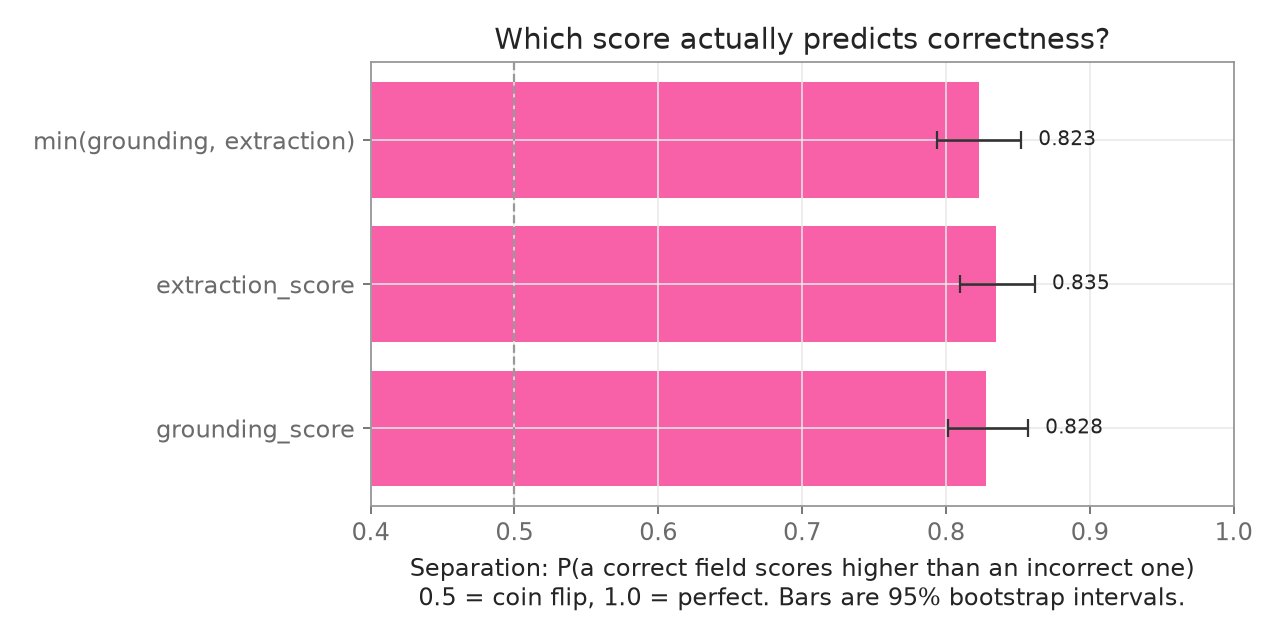
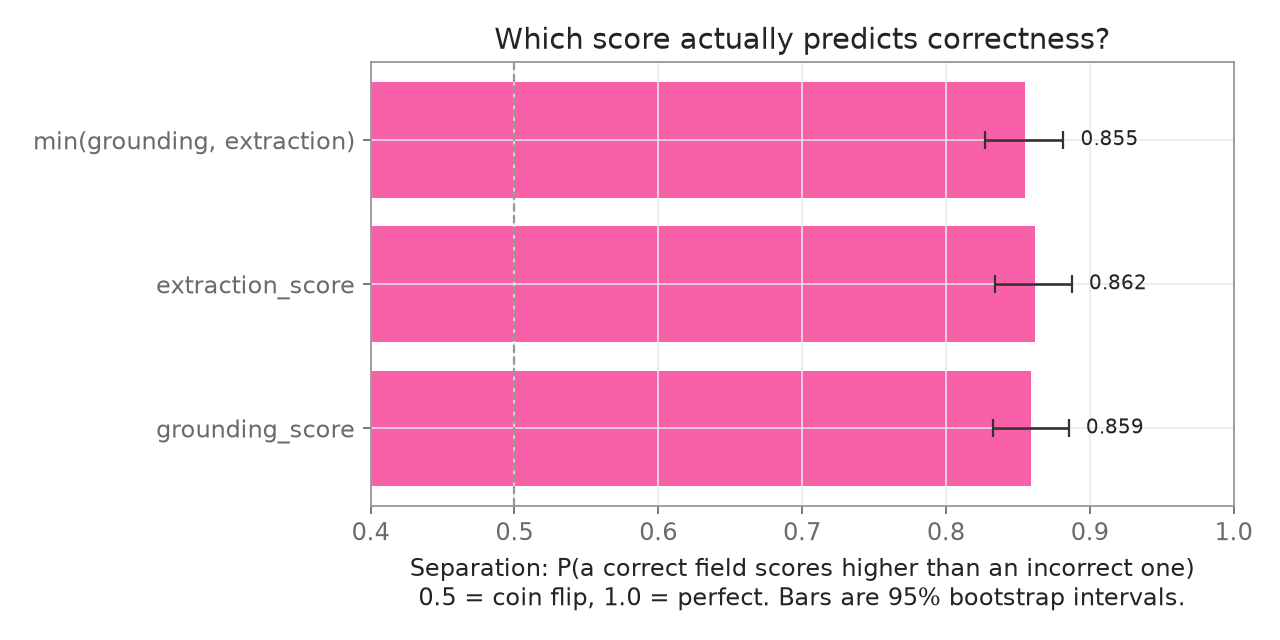
Fix a money-parsing scoring bug in compare.py, add regression tests
_strip_money() resolved comma ambiguity (thousands separator vs decimal) but
hardcoded the assumption that "." always means decimal. False for part of the
CORD corpus: Indonesian receipts commonly print "." as a thousands separator
with no subunit ("15.000" = 15000 IDR). Ground truth preserves each receipt's
own punctuation but the extractor doesn't always mirror it, so the same real
value could arrive as "15.000" on one side and "15,000" on the other and parse
to 15.0 and 15000.0 through different code paths -- scored as a mismatch
despite the extraction being correct. A narrower sibling bug: the literal "."
in a "Rp." abbreviation survived the symbol-stripping regex and was read as a
decimal point too ("Rp. 91,000" parsed as 0.91).

Fix: whichever of "," or "." is rightmost is the decimal-point candidate, and
only counts as one if exactly 1-2 digits follow it; otherwise both symbols are
discarded. Verified against US format, EU/ID format, multi-group thousands,
negatives, and the Rp. case.

Measured impact rather than assumed: generated-corpus rows (0/1176 changed,
confirmed with duplicate-safe alignment since repeated line items share a
field name) and field_type_accuracy.csv/figure 5 are unaffected, since both
are computed from the generated corpus only. CORD rows: 22 flip from wrong to
correct, matching the false-negative pattern exactly, zero regressions.
score_discrimination.csv (Finding 1), which pools both corpora, moved as a
[…]

Changed region(s): [[0.75, 0.5625, 0.9062, 0.7812], [0.75, 0.125, 0.9062, 0.3125], [0.75, 0.3438, 0.9062, 0.5312]]

diff --git a/confidence-calibration/calibration/test_compare.py b/confidence-calibration/calibration/test_compare.py
@@ -1,0 +1,171 @@
+"""Tests for the comparison rules in compare.py.
+
+This module is the entire epistemic foundation of the recipe: every headline number in the
+notebook and README is downstream of `values_match` deciding what counts as correct. The
+money-parsing case (`_strip_money`) shipped with a real bug — every "." was treated as a
+decimal point regardless of locale, so "15.000" (Indonesian thousands) and "15,000" (the same
+value, US-style) parsed to 15.0 and 15000.0 and scored as a mismatch. It was found by hand,
+cross-referencing a CSV against ground truth. These cases are what should have caught it.
+
+Run: python -m unittest calibration.test_compare -v   (from confidence-calibration/)
+"""
+
+import unittest
+from datetime import date
+
+from calibration.compare import (
+    _fold_id,
+    _fold_text,
+    _parse_date,
+    _strip_money,
+    _strip_number,
+    flatten_result,
+    flatten_truth,
+    values_match,
+)
+
+
+class StripMoneyTests(unittest.TestCase):
+    def test_us_format_thousands_and_decimal(self):
+        self.assertEqual(_strip_money("$1,401.42"), "1401.42")
+
+    def test_eu_id_format_thousands_and_decimal(self):
+        # Comma as decimal, dot as thousands grouping.
+        self.assertEqual(_strip_money("1.401,42"), "1401.42")
+
+    def test_indonesian_thousands_dot_no_subunit(self):
+        # The bug: "." was always treated as decimal, so this parsed to 15.0.
+        self.assertEqual(_strip_money("15.000"), "15000.00")
+
+    def test_comma_thousands_no_subunit(self):
+        self.assertEqual(_strip_money("15,000"), "15000.00")
+
+    def test_indonesian_and_western_notation_are_equal(self):
+        # The specific false negative from receipt_042: same value, two conventions.
+        self.assertEqual(_strip_money("15.000"), _strip_money("15,000"))
+
+    def test_currency_abbreviation_dot_is_not_decimal(self):
+        # The "." in "Rp." survives the symbol-stripping regex; must not be read as decimal.
+        self.assertEqual(_strip_money("Rp. 91,000"), "91000.00")
+
+    def test_multi_group_thousands(self):
+        self.assertEqual(_strip_money("1.234.567"), "1234567.00")
+
+    def test_two_digit_decimal_kept(self):
+        self.assertEqual(_strip_money("36841.78"), "36841.78")
+
+    def test_one_digit_decimal_kept(self):
+        self.assertEqual(_strip_money("$5.5"), "5.50")
+
+    def test_negative_leading_sign(self):
+        self.assertEqual(_strip_money("-1815.22"), "-1815.22")
+
+    def test_negative_trailing_sign(self):
+        self.assertEqual(_strip_money("1815.22-"), "-1815.22")
+
+    def test_plain_integer(self):
+        self.assertEqual(_strip_money("36841"), "36841.00")
+
+    def test_none_input(self):
+        self.assertIsNone(_strip_money(None))
+
+    def test_unparseable_input(self):
+        self.assertIsNone(_strip_money("n/a"))
+
+    def test_empty_after_stripping_symbols(self):
+        self.assertIsNone(_strip_money("USD"))
+
+
+class StripNumberTests(unittest.TestCase):
+    def test_plain_integer(self):
+        self.assertEqual(_strip_number("3"), "3")
+
+    def test_decimal(self):
+        self.assertEqual(_strip_number("20.5"), "20.5")
+
+    def test_none_input(self):
+        self.assertIsNone(_strip_number(None))
+
+    def test_unparseable(self):
+        self.assertIsNone(_strip_number("many"))
+
+
+class ParseDateTests(unittest.TestCase):
+    def test_iso_format(self):
+        self.assertEqual(_parse_date("2026-07-21"), date(2026, 7, 21))
+
+    def test_slash_dmy_format(self):
+        self.assertEqual(_parse_date("21/07/2026"), date(2026, 7, 21))
+
+    def test_none_input(self):
+        self.assertIsNone(_parse_date(None))
+
+    def test_unparseable(self):
+        self.assertIsNone(_parse_date("sometime in July"))
+
+
+class FoldTextAndIdTests(unittest.TestCase):
+    def test_fold_text_case_and_whitespace(self):
+        self.assertEqual(_fold_text("  Brightline   Logistics Ltd "), "brightline logistics ltd")
+
+    def test_fold_id_strips_punctuation(self):
+        self.assertEqual(_fold_id("GB 742-118.593"), "GB742118593")
+
+
+class ValuesMatchTests(unittest.TestCase):
+    def test_money_match_across_notations(self):
+        self.assertTrue(values_match("money", "15.000", "15,000"))
+
+    def test_money_mismatch(self):
+        self.assertFalse(values_match("money", "10.00", "20.00"))
+
+    def test_unparseable_ground_truth_is_none_not_false(self):
+        # A truth value the corpus itself can't parse is a corpus defect, not a verdict on the
+        # extraction: it must be excluded from scoring (None), not silently counted as wrong.
+        self.assertIsNone(values_match("money", "10.00", "not a number"))
+
+    def test_unparseable_prediction_is_false(self):
+        # The reverse must NOT be None: an extractor that returns garbage is simply wrong.
+        self.assertFalse(values_match("money", "not a number", "10.00"))
+
+    def test_empty_ground_truth_is_none(self):
+        self.assertIsNone(values_match("text", "anything", ""))
+
+    def test_date_match_different_formats(self):
+        self.assertTrue(values_match("date", "21/07/2026", "2026-07-21"))
+
+    def test_id_match_ignores_punctuation_and_case(self):
+        self.assertTrue(values_match("id", "gb742118593", "GB 742-118.593"))
+
+    def test_text_match_ignores_case_and_whitespace(self):
+        self.assertTrue(values_match("text", "Acme Corp", "  acme   corp "))
+
+    def test_unknown_field_type_raises(self):
+        with self.assertRaises(ValueError):
+            values_match("currency_amount_in_lira", "1", "1")
+
+
+class FlattenTests(unittest.TestCase):
+    def test_flatten_result_indexes_array_rows(self):
+        result = {
+            "line_items": {
+                "score": {},
+                "value": [
+                    {"amount": {"score": {"grounding_score": 0.9, "extraction_score": 0.9}, "value": "10.00"}},
+                    {"amount": {"score": {"grounding_score": 0.8, "extraction_score": 0.8}, "value": "20.00"}},
+                ],
+            }
+        }
+        leaves = flatten_result(result)
+        self.assertEqual(leaves["line_items[0].amount"]["value"], "10.00")
+        self.assertEqual(leaves["line_items[1].amount"]["value"], "20.00")
+
+    def test_flatten_truth_matches_indexed_shape(self):
+        truth = {"line_items": [{"amount": "10.00"}, {"amount": "20.00"}]}
+        leaves = flatten_truth(truth)
+        self.assertEqual(leaves["line_items[0].amount"], "10.00")
+        self.assertEqual(leaves["line_items[1].amount"], "20.00")
+
+
+if __name__ == "__main__":
+    unittest.main()

diff --git a/confidence-calibration/calibration/compare.py b/confidence-calibration/calibration/compare.py
@@ -22,7 +22,20 @@ from datetime import date, datetime
 
 
 def _strip_money(text) -> str | None:
-    """Digits, sign and one decimal point; currency symbols and separators discarded."""
+    """Digits, sign and one decimal point; currency symbols and separators discarded.
+
+    Neither "," nor "." has a fixed meaning across locales, so the previous version's bug was
+    trusting "." unconditionally: CORD's Indonesian receipts print "." as a thousands separator
+    with no decimal subunit ("15.000" = 15000), so "15.000" (extracted) and "15,000" (ground
+    truth) parsed to 15.0 and 15000.0 - the same real value scored as a mismatch. This also
+    silently corrupted "Rp. 91,000" (the "." from the "Rp." abbreviation survives the regex
+    below) into 0.91 instead of 91000.
+
+    Rule: whichever of "," or "." is rightmost is the decimal point candidate, and it only
+    counts as one if exactly 1-2 digits follow it. Otherwise every "," and "." present is a
+    separator (or noise) and gets discarded. This matches both "1,401.42" (US) and "1.401,42"
+    (EU/ID) while treating "15.000" and "Rp. 91,000" as pure thousands groupings.
+    """
     if text is None:
         return None
     cleaned = re.sub(r"[^\d.,\-]", "", str(text))
@@ -30,14 +43,24 @@ def _strip_money(text) -> str | None:
     cleaned = cleaned.strip("-")
     if not cleaned:
         return None
-    # Decide whether "," is a thousands separator or a decimal point. A comma followed by
-    # exactly two trailing digits, with no "." anywhere, is treated as decimal — matching how
-    # CORD's Indonesian receipts are punctuated. Everything else is a thousands separator.
-    if "," in cleaned and "." not in cleaned:
-        head, _, tail = cleaned.rpartition(",")
-        cleaned = f"{head.replace(',', '')}.{tail}" if len(tail) == 2 and head else cleaned.replace(",", "")
+
+    has_comma, has_dot = "," in cleaned, "." in cleaned
+    if has_comma and has_dot:
+        decimal_char = "," if cleaned.rfind(",") > cleaned.rfind(".") else "."
+    elif has_comma:
+        decimal_char = ","
+    elif has_dot:
+        decimal_char = "."
     else:
-        cleaned = cleaned.replace(",", "")
+        decimal_char = None
+
+    if decimal_char:
+        head, _, tail = cleaned.rpartition(decimal_char)
+        if len(tail) in (1, 2) and head:
+            cleaned = f"{re.sub(r'[.,]', '', head)}.{tail}"
+        else:
+            cleaned = re.sub(r"[.,]", "", cleaned)
+
     try:
         value = float(cleaned)
     except ValueError:

diff --git a/confidence-calibration/scripts/build_notebook.py b/confidence-calibration/scripts/build_notebook.py
@@ -57,7 +57,7 @@ watches what happens to the confidence scores as the document gets harder to rea
 |---|---|
 | **0.85 is safe on clean documents and not on degraded ones** | 0% error on a clean PDF (288 fields accepted). 43% on a phone photo, where it accepts 30. |
 | **0.97 does not fix that; it stops answering** | 0% error on degraded tiers, but from 4 accepted fields out of 294. The interval on 0-of-4 reaches 49%. |
-| **The two scores are interchangeable** | Separation 0.835 / 0.828 / 0.823, intervals overlapping. `min()` of the pair, which the HITL skill gates on, is no better. |
+| **The two scores are interchangeable** | Separation 0.862 / 0.859 / 0.855, intervals overlapping. `min()` of the pair, which the HITL skill gates on, is no better. |
 | **Degradation flips the bias, not just the noise** | Scanned-and-noisy is *under*confident (-0.26), photographed is *over*confident (+0.07). Only one of those costs you accuracy. |
 | **Money fields break first, text survives** | On a phone photo: money 19% correct, IDs 35%, free text 84%. The fields worth extracting for are the ones that fail. |
 
@@ -263,8 +263,8 @@ Image.open(RESULTS / "figures" / "01_score_discrimination.png")
 
 md(
     """
-**All three are equivalent.** The point estimates differ (0.835, 0.828, 0.823) but the 95%
-bootstrap intervals overlap almost entirely: [0.810, 0.862], [0.802, 0.857], [0.794, 0.852].
+**All three are equivalent.** The point estimates differ (0.862, 0.859, 0.855) but the 95%
+bootstrap intervals overlap almost entirely: [0.834, 0.887], [0.833, 0.885], [0.827, 0.882].
 Ranking them on those point estimates would be reading noise.
 
 `grounding_score` and `extraction_score` answer different questions — was the value located,
@@ -512,7 +512,9 @@ md(
   that is what was measured.
 - **Scores move between runs** as Unsiloed's models change in production. Treat the figures
   as indicative of the *shape* of the finding (thresholds do not travel across document
-  quality) rather than as fixed targets.
+  quality) rather than as fixed targets. Results here are as of **2026-09-13**. This recipe
+  doesn't set its own re-run cadence — that's a maintainer call — it just puts the date on
+  record so the numbers don't quietly go stale unlabeled.
 
 ## Reproducing This
 

diff --git a/confidence-calibration/README.md b/confidence-calibration/README.md
@@ -92,7 +92,7 @@ Same documents, four quality tiers:
 
 ### The analysis
 
-1. **Score discrimination**: Do grounding, extraction, or min(grounding, extraction) predict correctness better? Answer: they're equivalent (0.83 separation).
+1. **Score discrimination**: Do grounding, extraction, or min(grounding, extraction) predict correctness better? Answer: they're equivalent (~0.86 separation, intervals overlapping).
 
 2. **Reliability diagram**: As document quality drops, do scores become miscalibrated? Answer: yes, and in opposite directions. On T0/T1 the score barely varies at all — 288 of 294 clean-document fields sit in one 0.9-1.0 bucket, so there is no curve to draw. T2 is *under*confident (signed error -0.26) and T3 is *over*confident (+0.07). Note that ECE, which discards the sign, therefore ranks T2 as worse than T3 even though T3 is the tier that ships wrong values as correct.
 
@@ -107,13 +107,28 @@ Same documents, four quality tiers:
 All cached in `results/`:
 
 - **`figures/`**: Five PNG charts (discrimination, reliability, threshold sweep, fixed thresholds, accuracy by field type)
-- **`scored_fields.csv`**: Every extracted field vs ground truth (2,307 rows)
+- **`scored_fields.csv`**: Every extracted field vs ground truth (2,312 rows)
 - **`score_discrimination.csv`**: Which score predicts correctness
 - **`calibration_error.csv`**: Expected calibration error per tier, plus `signed_error` and `direction` — ECE takes an absolute value, so the sign is what tells you whether a tier is over- or underconfident
 - **`threshold_sweep.csv`**: Coverage and error per threshold per tier
 - **`sub_1pct_thresholds.csv`**: Minimum threshold to hit <1% error per tier
 - **`fixed_thresholds.csv`**: Error when using 0.85 and 0.97 across tiers, with Wilson intervals and the count actually accepted (`n_accepted`) — a 0% built from 4 fields and one built from 288 are not the same claim
 - **`field_type_accuracy.csv`**: Accuracy per field type per tier, with intervals — money and IDs collapse on photographed documents while text survives
+
+## Testing
+
+`calibration/compare.py` decides what counts as "correct" for every field in the corpus, so
+it is the actual epistemic foundation of every number in this recipe — a bug here silently
+changes headline findings rather than crashing loudly. `calibration/test_compare.py` covers
+the parsing and comparison rules directly, including the case that shipped broken in an
+earlier version of this PR: `_strip_money` treated every `.` as a decimal point, so "15.000"
+(an Indonesian thousands grouping) and "15,000" (the same value, comma-grouped) parsed to
+different floats and scored as a mismatch. Stdlib `unittest`, no extra dependency.
+
+```bash
+cd confidence-calibration
+python -m unittest calibration.test_compare -v
+```
 
 ## Architecture
 
@@ -127,6 +142,7 @@ corpus/
 calibration/
   ├── run.py                   # Extract every doc at every tier (resumable, cached)
   ├── compare.py               # Score fields against ground truth
+  ├── test_compare.py          # Unit tests for the scoring rules above
   └── analyse.py               # Generate five outputs + figures
 
 documents/
@@ -146,7 +162,7 @@ results/
 - **Synthetic documents are realistic but controlled.** Exact ground truth and varied degradation are impossible with real documents. Validity depends on T0 being readable and T3 being genuinely hard (both visually verified).
 - **CORD receipts are real but Indonesian.** Thermal paper, hand-written fields, shadows. Scores may not generalise to Western business documents; intent is external validity check.
 - **Thresholds are specific to this corpus.** A company's documents may need different numbers. The *methodology* is the reusable part.
-- **Scores drift between runs.** Unsiloed's models improve in production. Numbers are indicative; the *shape of findings* (thresholds don't travel) is durable.
+- **Scores drift between runs.** Unsiloed's models improve in production. Numbers are indicative; the *shape of findings* (thresholds don't travel) is durable. Results here are as of **2026-09-13**, against whatever `/v2/extract` served that day. This recipe doesn't decide its own re-run cadence — that's a maintainer call (quarterly re-run, a pinned "results as of" note, or accept it drifts) — it just makes sure the date is on record instead of the numbers quietly going stale unlabeled.
 - **Some cells are thin.** At 0.85 the T3 accepted set is 30 fields and at 0.97 it is 4. Figures mark anything under 30 as unreliable (dotted lines, wide intervals) rather than hiding it. Treat the direction of these findings as solid and the second decimal place as noise.
 
 ## Related
